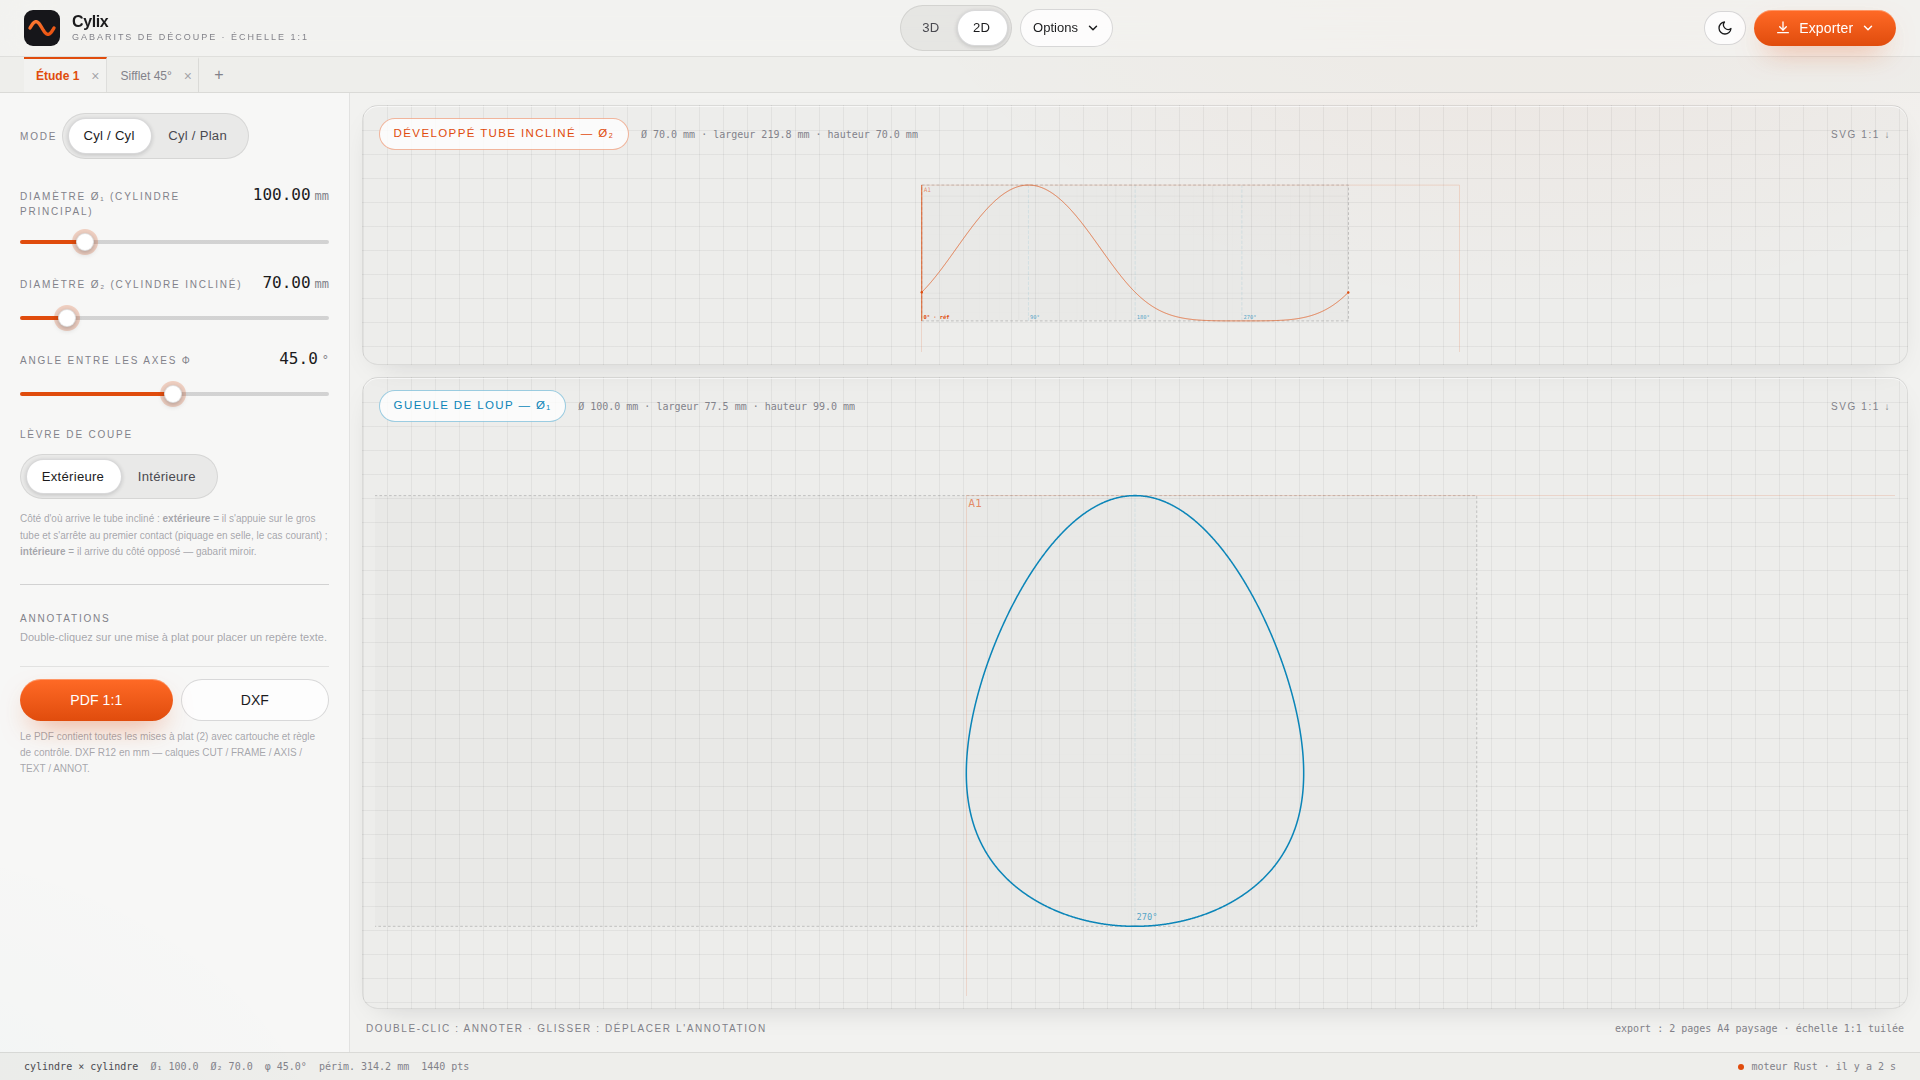
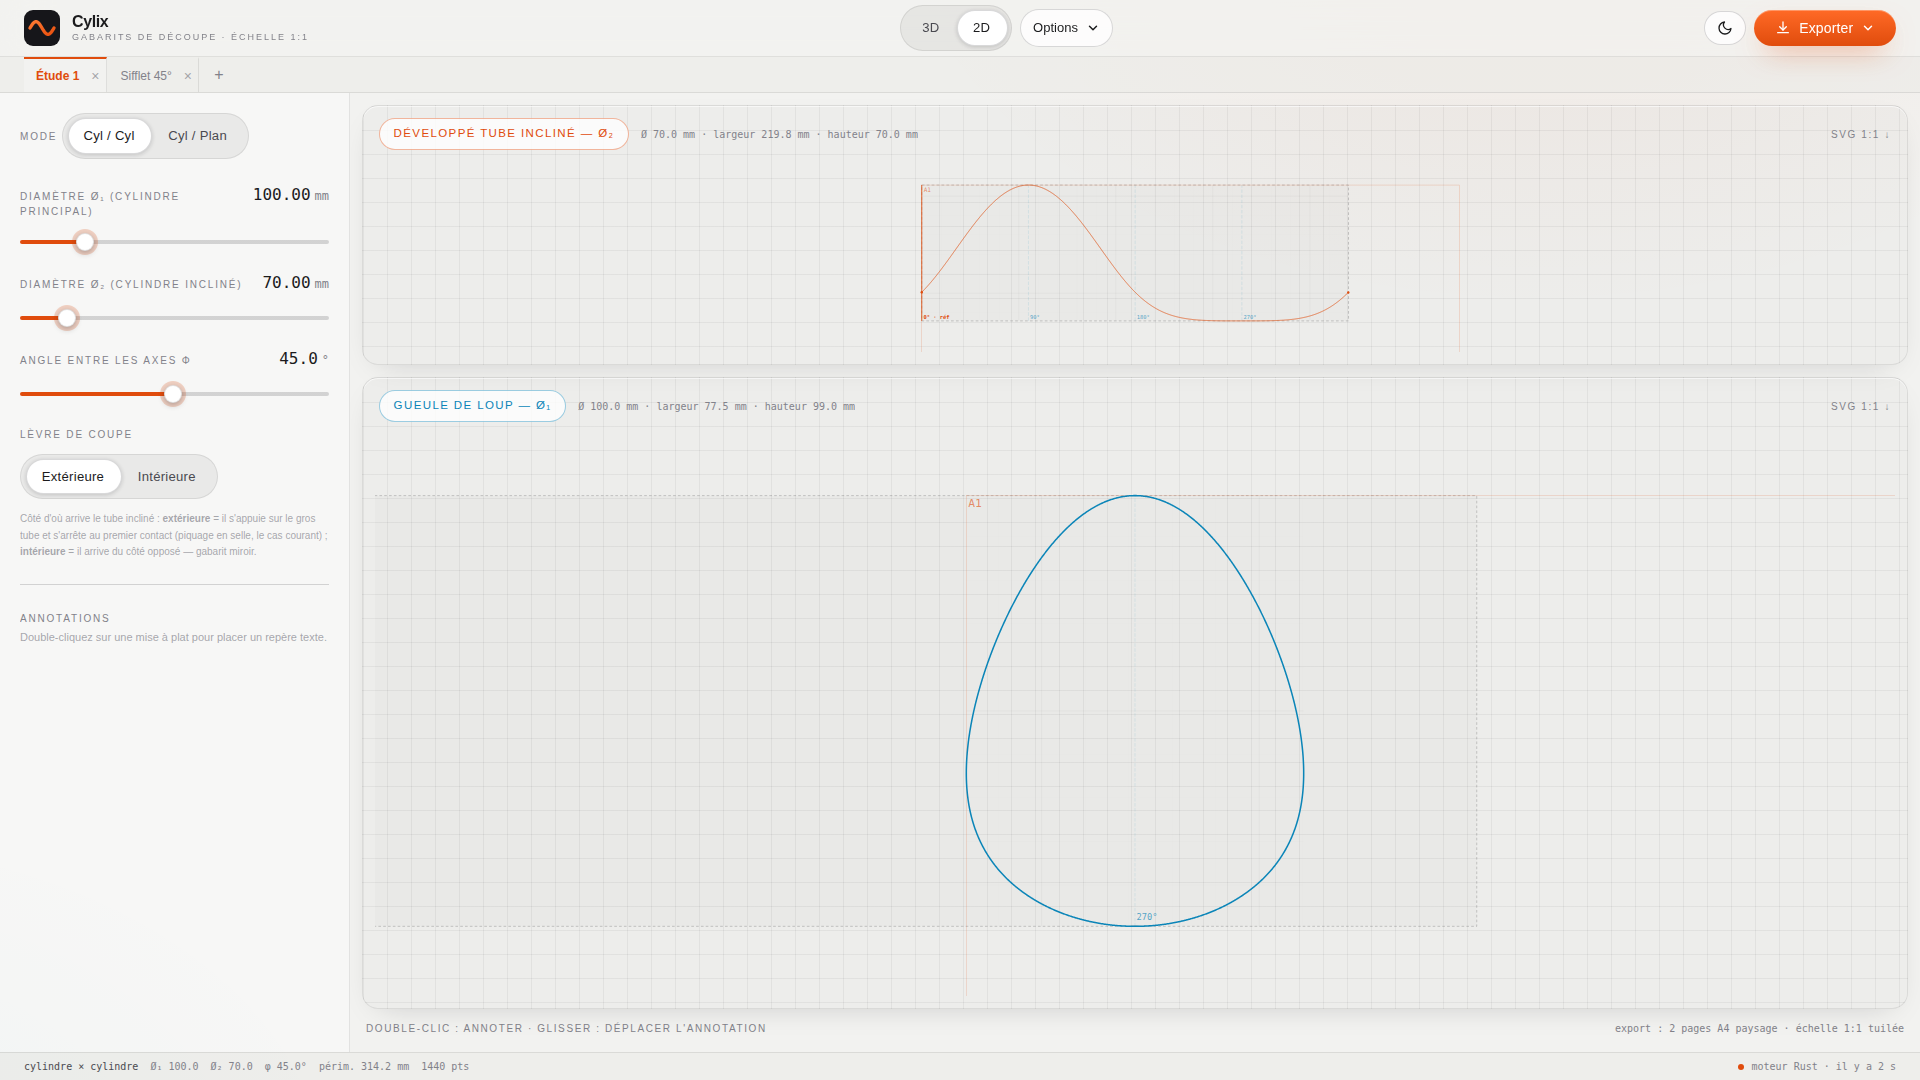
Sidebar : plus de boutons d'export, tout passe par le menu Exporter
Le panneau de gauche ne garde que les annotations en vue 2D ; captures
mises à jour.

Claude-Session: https://claude.ai/code/session_01DVYZEnZfpxvTCaQceh5G1Y

Changed region(s): [[0.0, 0.6111, 0.1562, 0.7028]]

diff --git a/web/src/components/ExportPanel.svelte b/web/src/components/ExportPanel.svelte
@@ -1,6 +1,6 @@
 <script lang="ts">
-  // Annotations + export actions — shown in the sidebar when the 2D
-  // workspace is active. Layout options live in the header Options menu.
+  // Annotations — shown in the sidebar when the 2D workspace is active.
+  // Layout options live in the header Options menu, exports in Exporter.
   import { store } from "../lib/store.svelte";
   import { editor } from "../lib/editor.svelte";
 </script>
@@ -48,29 +48,7 @@
     {/if}
   </section>
 
-  <section class="pt-3 hl-t space-y-2">
-    <div class="flex gap-2">
-      <button
-        class="btn-primary flex-1 !py-2.5 text-sm"
-        disabled={editor.busy !== null || !store.result}
-        onclick={() => editor.exportPdf()}
-      >
-        {editor.busy === "pdf" ? "génération…" : "PDF 1:1"}
-      </button>
-      <button
-        class="btn-ghost flex-1 justify-center !py-2.5 text-sm"
-        disabled={editor.busy !== null || !store.result}
-        onclick={() => editor.exportDxf()}
-      >
-        {editor.busy === "dxf" ? "génération…" : "DXF"}
-      </button>
-    </div>
-    {#if editor.error}
-      <p class="text-[12px] text-ember">{editor.error}</p>
-    {/if}
-    <p class="text-[10px] text-ash/70 leading-relaxed">
-      Le PDF contient toutes les mises à plat ({editor.available.length}) avec cartouche et
-      règle de contrôle. DXF R12 en mm — calques CUT / FRAME / AXIS / TEXT / ANNOT.
-    </p>
-  </section>
+  {#if editor.error}
+    <p class="text-[12px] text-ember">{editor.error}</p>
+  {/if}
 </div>
